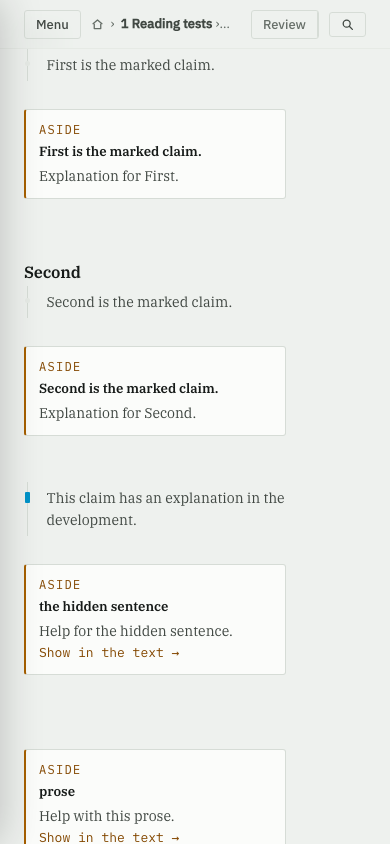
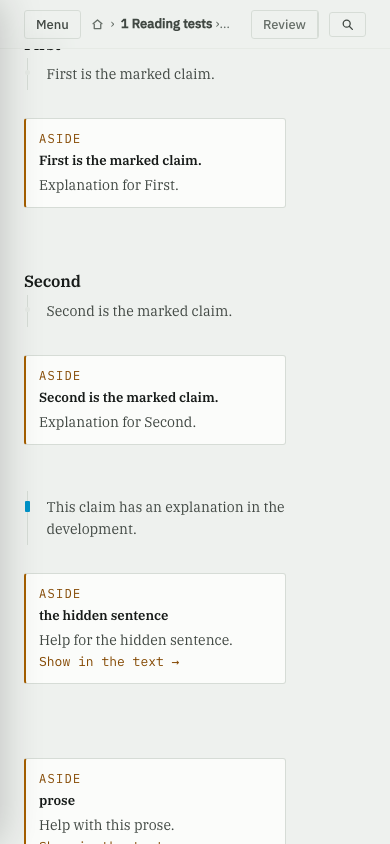
specific note highlights & subsection saving

diff --git a/src/components/Notes.jsx b/src/components/Notes.jsx
@@ -1,5 +1,6 @@
 import { useState, useRef, useEffect } from "preact/hooks";
-import { readNotes, writeNotes, isFolded, setFolded } from "../lib/notes.js";
+import { readNotes, writeNotes, noteText, isFolded, setFolded } from "../lib/notes.js";
+import { selectedIn, showNoteSelection, clearNoteSelection } from "../lib/note-selection.js";
 import { md } from "../lib/md.js";
 
 /* The learner's notes on one block, in two pieces that share one state.
@@ -34,7 +35,7 @@ const NUDGE = 18;        /* how far the grip itself follows the finger */
  * because the grip and the card are different zones of the same row and the
  * same notes. `anchor` may be null for a row that carries none.
  */
-export function useNotes(cid, anchor) {
+export function useNotes(cid, anchor, content) {
   const [list, setList] = useState(() => (anchor ? readNotes(cid, anchor) : []));
   const [editing, setEditing] = useState(-1);       /* index, or -1 */
   const [fold, setFold] = useState(() => (anchor ? isFolded(cid, anchor) : false));
@@ -49,7 +50,10 @@ export function useNotes(cid, anchor) {
   const held = useRef(list);
   const apply = next => { held.current = next; setList(next); };
 
-  useEffect(() => () => clearTimeout(save.current), []);
+  useEffect(() => () => {
+    clearTimeout(save.current);
+    clearNoteSelection(content.current);
+  }, []);
   /* a different block is being annotated: start clean rather than carrying the
      previous one's editing state across */
   useEffect(() => {
@@ -81,20 +85,30 @@ export function useNotes(cid, anchor) {
     cid, anchor, list, editing, fold, pull, setPull,
     /* A new note always goes at the end and opens straight into editing: the
        gesture that asked for it was already the decision to write one. */
-    add: () => {
+    selection: () => selectedIn(content.current),
+    show: i => showNoteSelection(content.current, held.current[i]?.selection),
+    hide: () => clearNoteSelection(content.current),
+    add: selection => {
       open();
-      const blank = held.current.findIndex(t => !t.trim());
-      if (blank >= 0) { setEditing(blank); return; }
-      setEditing(held.current.length); apply([...held.current, ""]);
+      const blank = held.current.findIndex(t => !noteText(t).trim());
+      if (blank >= 0) {
+        if (selection) apply(held.current.map((t, i) => i === blank
+          ? { text: noteText(t), selection } : t));
+        setEditing(blank); return;
+      }
+      setEditing(held.current.length);
+      apply([...held.current, selection ? { text: "", selection } : ""]);
     },
     edit: i => { open(); setEditing(i); },
     input: (i, v) => {
-      const next = held.current.map((t, k) => (k === i ? v : t));
+      const next = held.current.map((t, k) => (k === i
+        ? typeof t === "string" ? v : { ...t, text: v } : t));
       apply(next); later(next);
     },
     /* Written through, not debounced: a delete is the one edit the reader
        cannot repeat by typing it again. */
     drop: i => {
+      clearNoteSelection(content.current);
       const next = held.current.filter((_, k) => k !== i);
       apply(next); setEditing(-1); now(next);
     },
@@ -102,7 +116,8 @@ export function useNotes(cid, anchor) {
        same gesture. A blank is intentional: it collapses into the saved-note
        state instead of being discarded. */
     done: () => {
-      const keep = held.current.map(t => t.trim() ? t : "");
+      const keep = held.current.map(t => typeof t === "string"
+        ? (t.trim() ? t : "") : { ...t, text: t.text.trim() ? t.text : "" });
       setEditing(-1); apply(keep); now(keep);
     },
     toggle: () => setFold(f => { setFolded(cid, anchor, !f); return !f; })
@@ -118,7 +133,8 @@ export function NoteGrip({ n }) {
      72px grip and the gesture dies mid-pull. */
   const onDown = e => {
     if (e.button != null && e.button > 0) return;      /* left button only */
-    drag.current = { y: e.clientY, id: e.pointerId, moved: false };
+    drag.current = { y: e.clientY, id: e.pointerId, moved: false,
+                     selection: n.selection() };
     try { e.currentTarget.setPointerCapture(e.pointerId); } catch {}
   };
   const onMove = e => {
@@ -136,14 +152,14 @@ export function NoteGrip({ n }) {
     /* A press opens. A pull opens once past the threshold. A pull that stops
        short snaps back, which is what makes the threshold discoverable rather
        than a trap. */
-    if (!d.moved || e.clientY - d.y >= OPEN_AT) n.add();
+    if (!d.moved || e.clientY - d.y >= OPEN_AT) n.add(d.selection);
     n.setPull(0);
   };
   const onCancel = () => { drag.current = null; n.setPull(0); };
   /* The browser also fires click after a pointer sequence, which would open a
      snapped-back pull a second time. `detail === 0` is a click with no pointer
      behind it — the keyboard case, and the only one not covered above. */
-  const onClick = e => { if (e.detail === 0) n.add(); };
+  const onClick = e => { if (e.detail === 0) n.add(n.selection()); };
 
   if (!n.anchor) return null;
   return (
@@ -164,9 +180,12 @@ function Note({ n, i, text }) {
   const area = useRef(null);
   const mine = n.editing === i;
   useEffect(() => { if (mine) area.current?.focus(); }, [mine]);
+  const leave = e => { if (!e.currentTarget.contains(e.relatedTarget)) n.hide(); };
 
   if (!mine && !text.trim()) return (
-    <div class="note-one note-blank">
+    <div class="note-one note-blank" onMouseOver={() => n.show(i)}
+         onMouseOut={leave} onFocusIn={() => n.show(i)}
+         onFocusOut={leave}>
       <button class="note-blank-open" type="button" onClick={() => n.edit(i)}>
         <span class="note-blank-line" aria-hidden="true" />
         <span>Saved note</span>
@@ -177,7 +196,9 @@ function Note({ n, i, text }) {
   );
 
   if (!mine) return (
-    <div class="note-one">
+    <div class="note-one" tabIndex={0} onMouseOver={() => n.show(i)}
+         onMouseOut={leave} onFocusIn={() => n.show(i)}
+         onFocusOut={leave}>
       {/* The reader's own text, through lib/md.js, which escapes before it
           formats — see the safety note there. */}
       <div class="note-body" dangerouslySetInnerHTML={{ __html: md(text) }} />
@@ -186,7 +207,9 @@ function Note({ n, i, text }) {
   );
 
   return (
-    <div class="note-one">
+    <div class="note-one" onMouseOver={() => n.show(i)}
+         onMouseOut={leave} onFocusIn={() => n.show(i)}
+         onFocusOut={leave}>
       <textarea ref={area} class="note-area" value={text}
                 onInput={e => n.input(i, e.currentTarget.value)} onBlur={n.done}
                 rows={Math.max(3, text.split("\n").length + 1)}
@@ -214,7 +237,7 @@ export function NoteCard({ n, label = "Note" }) {
      the reader a box with nothing in it. */
   if (!n.anchor || !n.list.length) return null;
 
-  const blank = n.editing < 0 && n.list.every(t => !t.trim());
+  const blank = n.editing < 0 && n.list.every(t => !noteText(t).trim());
   if (blank) return (
     <div class="mnote is-n is-blank" data-nosnippet>
       <Note n={n} i={0} text="" />
@@ -224,11 +247,15 @@ export function NoteCard({ n, label = "Note" }) {
   return (
     <div class={"mnote is-n" + (n.fold ? " is-shut" : "")} data-nosnippet>
       <button class="mn-k note-fold" type="button" onClick={n.toggle}
+              onMouseOver={() => { if (n.list.length === 1) n.show(0); }}
+              onMouseOut={() => n.hide()}
+              onFocusIn={() => { if (n.list.length === 1) n.show(0); }}
+              onFocusOut={() => n.hide()}
               aria-expanded={n.fold ? "false" : "true"}>
         <span class="note-caret" aria-hidden="true" />
         {label}{n.list.length > 1 ? ` (${n.list.length})` : ""}
       </button>
-      {!n.fold && n.list.map((t, i) => <Note key={i} n={n} i={i} text={t} />)}
+      {!n.fold && n.list.map((t, i) => <Note key={i} n={n} i={i} text={noteText(t)} />)}
     </div>
   );
 }

diff --git a/src/components/Explore.jsx b/src/components/Explore.jsx
@@ -11,6 +11,9 @@ import { IconSaved } from "./Icon.jsx";
 import { ReadingRow, NoteRow } from "./Section.jsx";
 import Attempt from "./Attempt.jsx";
 import Inline from "./Inline.jsx";
+import Quiz from "./Quiz.jsx";
+import Slides from "./Slides.jsx";
+import Asides from "./Asides.jsx";
 
 /* Explore — search with the facets the overlay deliberately does not have.
  *
@@ -210,16 +213,21 @@ function Saved({ ctx, depth }) {
 
   useEffect(() => {
     const onSync = e => { if (e.detail.notes) setSynced(n => n + 1); };
+    const onNotes = e => { if (e.detail.cid === cid) setSynced(n => n + 1); };
     addEventListener("learn:synced", onSync);
-    return () => removeEventListener("learn:synced", onSync);
-  }, []);
+    addEventListener("learn:notes-changed", onNotes);
+    return () => {
+      removeEventListener("learn:synced", onSync);
+      removeEventListener("learn:notes-changed", onNotes);
+    };
+  }, [cid]);
 
   const groups = useMemo(() => {
     const bySub = new Map();
     for (const entry of idx.ANNOTATIONS) {
       const notes = readNotes(cid, entry.anchor);
-      if (!notes.length) continue;
       let group = bySub.get(entry.sub.id);
+      if (!notes.length && !group?.noted) continue;
       if (!group) {
         group = { sub: entry.sub, sec: entry.sec, num: entry.num,
                   noted: false, items: [] };
@@ -252,6 +260,11 @@ function Saved({ ctx, depth }) {
             {g.items.map(item => (
               <SavedBlock key={item.anchor} item={item} ctx={ctx} depth={depth} />
             ))}
+            {g.noted && (g.sub.quiz || []).length > 0 && (
+              <ReadingRow ctx={ctx}>
+                <Quiz sub={g.sub} num={g.num} ctx={ctx} depth={depth} />
+              </ReadingRow>
+            )}
           </div>
         ))}
       </section>
@@ -271,9 +284,12 @@ function SavedBlock({ item, ctx, depth }) {
 
   if (full) {
     const row = (
-      <ReadingRow ctx={ctx} noteAt={item.anchor} apart={isApart(b.t)}>
+      <ReadingRow ctx={ctx} noteAt={item.anchor} apart={isApart(b.t)}
+                  notes={<Asides b={b} ctx={ctx} />}>
       {INTERACTIVE.includes(b.t)
         ? <Attempt b={b} cid={cid} anchor={`${item.sub.id}#${item.at}@attempt`} />
+        : b.t === "slides"
+        ? <Slides b={b} ctx={ctx} fignum={idx.FIG.numOf(b)} />
         : <div class="bhtml" dangerouslySetInnerHTML={{ __html: decorate(
             renderBlock(b, { fignum: idx.FIG.numOf(b),
                              prevSource: prev && prev.source ? prev.source : null }),

diff --git a/src/lib/note-selection.js b/src/lib/note-selection.js
@@ -1,0 +1,63 @@
+/* A learner's selection is stored as character offsets in the block's text.
+ * The DOM can reflow without changing those offsets. The quote prevents an
+ * edited course from highlighting unrelated text at the old position. */
+const NAME = "learner-note";
+let activeRoot = null;
+
+export function selectedIn(root) {
+  const sel = getSelection();
+  if (!root || !sel?.rangeCount || sel.isCollapsed) return null;
+  const chosen = sel.getRangeAt(0);
+  if (!chosen.intersectsNode(root)) return null;
+  const whole = document.createRange();
+  whole.selectNodeContents(root);
+  const clipped = chosen.cloneRange();
+  if (whole.compareBoundaryPoints(Range.START_TO_START, chosen) > 0)
+    clipped.setStart(whole.startContainer, whole.startOffset);
+  if (whole.compareBoundaryPoints(Range.END_TO_END, chosen) < 0)
+    clipped.setEnd(whole.endContainer, whole.endOffset);
+  if (clipped.collapsed || !clipped.toString().trim()) return null;
+  const before = document.createRange();
+  before.setStart(whole.startContainer, whole.startOffset);
+  before.setEnd(clipped.startContainer, clipped.startOffset);
+  const start = before.toString().length;
+  return { start, end: start + clipped.toString().length, quote: clipped.toString() };
+}
+
+export function rangeFor(root, saved) {
+  if (!root || !saved || !Number.isInteger(saved.start) ||
+      !Number.isInteger(saved.end) || saved.start < 0 || saved.end <= saved.start)
+    return null;
+  const text = root.textContent;
+  if (text.slice(saved.start, saved.end) !== saved.quote) return null;
+  const walk = document.createTreeWalker(root, NodeFilter.SHOW_TEXT);
+  const range = document.createRange();
+  let node, pos = 0, started = false;
+  while ((node = walk.nextNode())) {
+    const next = pos + node.length;
+    if (!started && saved.start < next) {
+      range.setStart(node, saved.start - pos);
+      started = true;
+    }
+    if (started && saved.end <= next) {
+      range.setEnd(node, saved.end - pos);
+      return range;
+    }
+    pos = next;
+  }
+  return null;
+}
+
+export function showNoteSelection(root, saved) {
+  clearNoteSelection(activeRoot);
+  const range = rangeFor(root, saved);
+  if (!range || !globalThis.CSS?.highlights || !globalThis.Highlight) return;
+  CSS.highlights.set(NAME, new Highlight(range));
+  activeRoot = root;
+}
+
+export function clearNoteSelection(root) {
+  if (root !== activeRoot) return;
+  CSS.highlights?.delete(NAME);
+  activeRoot = null;
+}

diff --git a/src/lib/notes.js b/src/lib/notes.js
@@ -32,13 +32,18 @@ const forgetLegacySaved = (cid, anchor) => {
 const notesOf = list => {
   const out = [];
   let blank = false;
-  for (const t of list || []) {
-    if (typeof t !== "string") continue;
-    if (t.trim()) out.push(t);
-    else if (!blank) { out.push(""); blank = true; }
+  for (const item of list || []) {
+    const t = noteText(item);
+    if (t == null) continue;
+    const keep = typeof item === "string" ? item : { text: t, selection: item.selection };
+    if (t.trim()) out.push(keep);
+    else if (!blank) { out.push(keep); blank = true; }
   }
   return out;
 };
+
+export const noteText = item => typeof item === "string" ? item
+  : item && typeof item.text === "string" ? item.text : null;
 
 /* One anchor, one string. Still used by the pre-question attempt box, which
    holds a single answer and is not a note. */
@@ -66,7 +71,7 @@ export function readNotes(cid, anchor) {
       list = Array.isArray(v) ? notesOf(v) : [raw];
     } catch { list = [raw]; /* not JSON at all: the legacy shape */ }
   }
-  if (legacySaved(cid).has(anchor) && !list.some(t => !t.trim())) list.push("");
+  if (legacySaved(cid).has(anchor) && !list.some(t => !noteText(t).trim())) list.push("");
   return list;
 }
 
@@ -76,6 +81,8 @@ export function writeNotes(cid, anchor, list) {
   forgetLegacySaved(cid, anchor);
   if (keep.length) setPref(key(cid, anchor), JSON.stringify(keep));
   else dropPref(key(cid, anchor));
+  if (typeof dispatchEvent === "function")
+    dispatchEvent(new CustomEvent("learn:notes-changed", { detail: { cid } }));
 }
 
 /* Which of a course's notes the reader has folded shut.

diff --git a/src/components/Section.jsx b/src/components/Section.jsx
@@ -39,17 +39,18 @@ function usePair() {
  * right. */
 export function ReadingRow({ html, notes, noteAt, noteLabel, apart, follow, ctx, id, children }) {
   const pair = usePair();
+  const content = useRef(null);
   useEffect(() => pair.ref.current ? watchFigureScroll(pair.ref.current) : undefined, [html]);
   /* The row owns the note because the note is in two of its zones: the grip at
      the foot of the block, and the card in the margin beside it. */
-  const note = useNotes(ctx.cid, noteAt || null);
+  const note = useNotes(ctx.cid, noteAt || null, content);
 
   return (
     <div class="brow" ref={pair.ref} id={id} data-apart={apart || undefined}
          data-follow={follow || undefined}
          onMouseOver={pair.over} onMouseOut={pair.out}
          onFocusIn={pair.over} onFocusOut={pair.out}>
-      <div class="bmain">
+      <div class="bmain" ref={content}>
         {html != null
           ? <div class="bhtml" dangerouslySetInnerHTML={{
               __html: decorate(renderAnchors(html), ctx.cid, ctx.idx.FIG.byKey) }} />

diff --git a/src/css/62-notes.css b/src/css/62-notes.css
@@ -60,6 +60,8 @@
 .mnote.is-n{border-left-color:var(--dc)}
 .mnote.is-n .mn-k{color:var(--dc-ink)}
 .mnote.is-n .mn-go{color:var(--dc-ink)}
+::highlight(learner-note){background:color-mix(in srgb,var(--dc) 25%,transparent);color:var(--dc-ink)}
+.note-one:focus-visible{outline:2px solid var(--focus);outline-offset:2px}
 
 /* One card can hold several notes. They are ruled apart rather than boxed
    apart: a box inside a box reads as two cards that failed to separate. */

diff --git a/README.md b/README.md
@@ -123,4 +123,3 @@ After making a course, it can be made public by adding the course to the gitigno
 ## Todo
 
 - Ability to save entire subsections from within the sidebar
-- Allow for bolding, italicization, highlighting, etc. (inline customization of block text)
